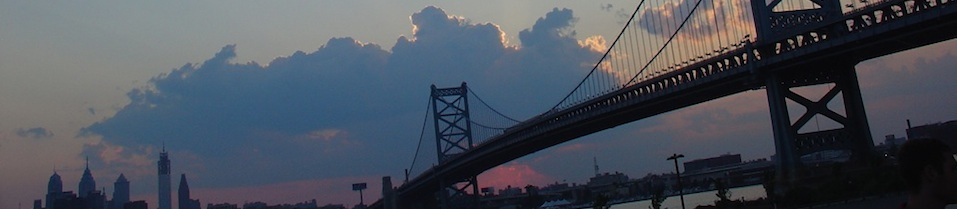
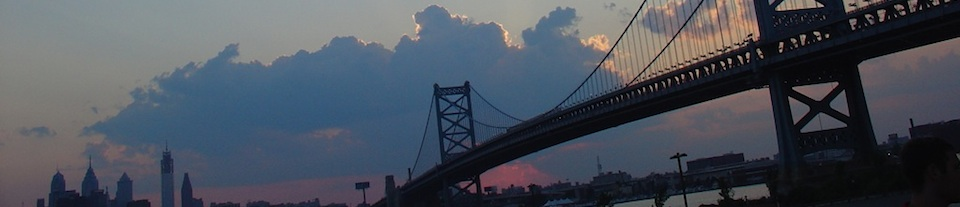
Moving back to real widget declarations.

diff --git a/functions.php b/functions.php
@@ -351,7 +351,7 @@ function lblg_header_style() {
 ?>
 <style type="text/css">
 #header{
-	background: url(<?php header_image() ?>) bottom right no-repeat;
+	background: url(<?php header_image() ?>) bottom left no-repeat;
 }
 <?php if ( 'blank' == get_header_textcolor() ) { ?>
 #header h1, #header #description {
@@ -564,32 +564,69 @@ function lblg_bpmenu_widget( $args ){
 	echo $after_widget;
 }
 
-class Lblg_BP_Menu_Widget extends WP_Widget {
-	function Lblg_BP_Menu_Widget() {
+class Lblg_Smart_Recent_Posts_Widget extends WP_Widget {
+	function Lblg_Smart_Recent_Posts_Widget(){
+		$widget_ops = array('classname' => 'lblg_smart_recent_posts_widget', 'description' => 'A widget that intelligently displays recent posts.' );
+		$this->WP_Widget('Lblg_Smart_Recent_Posts_Widget', 'Elbee Elgee Smart Recent Posts', $widget_ops);		
+	}
+	
+	function form( $instance ){
 		
 	}
 	
-	function widget( $args, $instance ) {
+	function update( $new_instance, $old_instance ){
 		
 	}
 	
-	function update( $new_instance, $old_instance ) {
-		
-	}
-	
-	function form( $instance ) {
+	function widget( $args, $instance ){
 		
 	}
 }
+
+class  Lblg_BP_Menu_Widget extends WP_Widget {
+
+    function Lblg_BP_Menu_Widget() {
+		$widget_ops = array('classname' => 'lblg_bp_menu_widget', 'description' => 'A basic top-level BuddyPress navigation menu.' );
+		$this->WP_Widget('Lblg_BP_Menu_Widget', 'Elbee Elgee BP Menu', $widget_ops);
+    }
+
+    function form( $instance ) {                          
+        $title = esc_attr($instance['title']);
+        ?>
+            <p><label for="<?php echo $this->get_field_id('title'); ?>"><?php _e('Title:'); ?> <input class="widefat" id="<?php echo $this->get_field_id('title'); ?>" name="<?php echo $this->get_field_name('title'); ?>" type="text" value="<?php echo $title; ?>" /></label></p>
+        <?php 
+    }
+
+    function update( $new_instance, $old_instance ) {
+        $instance = $old_instance;
+        $instance['title'] = strip_tags($new_instance['title']);
+        return $instance;
+    }
+
+    function widget( $args, $instance ) {         
+        extract( $args );
+        $title = apply_filters('widget_title', $instance['title']);
+       
+        echo $before_widget;
+        if ( $title ) echo $before_title . $title . $after_title;
+                echo '<ul id="lb-subnav">';
+                
+                if ( is_user_logged_in() ){
+                        bp_get_loggedin_user_nav();                     
+                } else {
+                        bp_get_displayed_user_nav();
+                }
+                echo '</ul>';
+                
+                echo $after_widget;
+    }
+} // class LBBPMenuWidget
+
 function lblg_widgets_init(){
 	if( function_exists('bp_get_loggedin_user_nav') ){
 		register_widget( 'Lblg_BP_Menu_Widget' );
-		wp_register_sidebar_widget( 'lblgbpmenu', __( 'Elbee Elgee BuddyPress Menu' ), 'lblg_bpmenu_widget', 
-									array(
-										'title' 		=> 'BuddyPress Menu',
-										'description'	=> 'Outputs the default BuddyPress navigational menu.'
-									) );
 	}
+	register_widget( 'Lblg_Smart_Recent_Posts_Widget' );
 }
 
 /*
